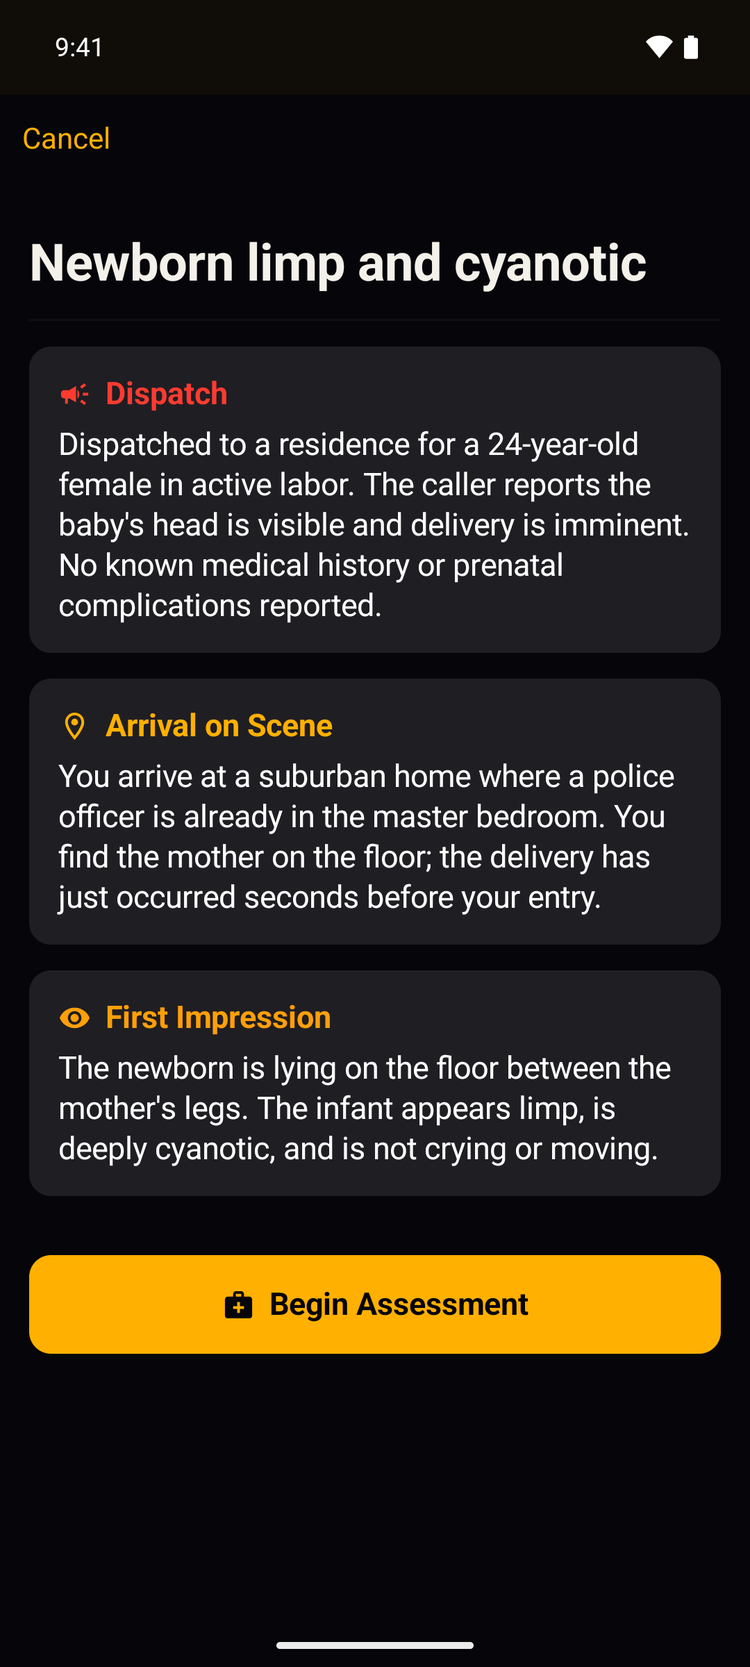
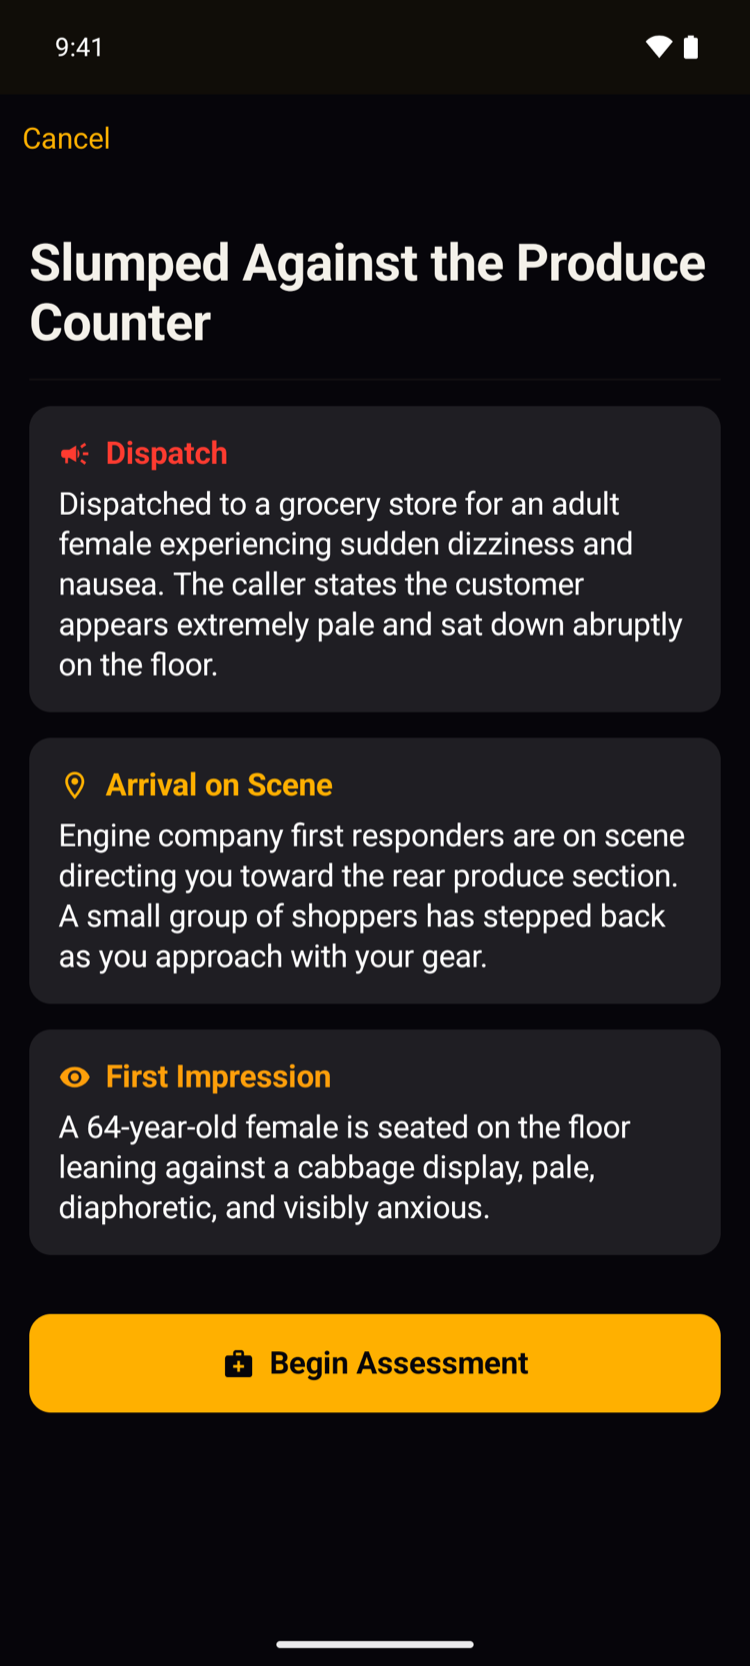
App page: Android shots recaptured from vc22 (9 screens, night and day), Android toggle back on
Claude-Session: https://claude.ai/code/session_01NDvMEPNuyk9MdhjjdwiH9w

Changed region(s): [[0.0307, 0.1248, 0.9813, 0.8739]]

diff --git a/app/index.html b/app/index.html
@@ -36,7 +36,7 @@
   <link rel="stylesheet" href="https://fonts.googleapis.com/css2?family=IBM+Plex+Mono:wght@400;500;600&family=Sora:wght@400;500;600;700;800&family=Source+Serif+4:opsz,wght@8..60,400;8..60,600&display=swap">
   <link rel="stylesheet" href="/assets/chrome.css?v=f5e22e65">
   <link rel="stylesheet" href="/assets/conveyor.css">
-  <link rel="stylesheet" href="/assets/app.css?v=51f94389">
+  <link rel="stylesheet" href="/assets/app.css?v=a8626ca0">
   <script>
     /* THE SHIFT IS RESOLVED BEFORE THE FIRST PAINT. app-toggle.js is deferred, so it
        runs after the page has already painted: a visitor who chose Day Shift saw the
@@ -115,7 +115,7 @@
 
         <div class="shot-col">
           <div class="toggles">
-            <div class="toggle" role="group" aria-label="Platform" hidden><!-- Android shots predate the current tabs; re-enable after a recapture -->
+            <div class="toggle" role="group" aria-label="Platform">
               <button type="button" data-set="platform:ios" aria-pressed="true"><svg width="13" height="13" viewBox="0 0 24 24" fill="currentColor" aria-hidden="true"><path d="M16.4 12.7c0-2.3 1.9-3.4 2-3.5-1.1-1.6-2.8-1.8-3.4-1.8-1.4-.1-2.8.9-3.5.9-.7 0-1.8-.9-3-.8-1.5 0-2.9.9-3.7 2.2-1.6 2.8-.4 6.9 1.1 9.1.8 1.1 1.7 2.3 2.9 2.3 1.2 0 1.6-.7 3-.7s1.8.7 3 .7c1.3 0 2.1-1.1 2.9-2.2.9-1.3 1.3-2.5 1.3-2.6 0 0-2.5-1-2.6-3.6zM14.2 5.9c.6-.8 1-1.9.9-3-.9 0-2.1.6-2.7 1.4-.6.7-1.1 1.8-1 2.9 1 .1 2.1-.5 2.8-1.3z"/></svg><span>iOS</span></button>
               <button type="button" data-set="platform:android" aria-pressed="false"><svg width="13" height="13" viewBox="0 0 24 24" fill="currentColor" aria-hidden="true"><path d="M17.6 9.5l1.4-2.4a.3.3 0 00-.5-.3L17 9.2a9.6 9.6 0 00-8.1 0L7.4 6.8a.3.3 0 00-.5.3l1.4 2.4A8.3 8.3 0 004 16h16a8.3 8.3 0 00-2.4-6.5zM8.5 13.4a.8.8 0 110-1.6.8.8 0 010 1.6zm7 0a.8.8 0 110-1.6.8.8 0 010 1.6z"/></svg><span>Android</span></button>
             </div>

diff --git a/assets/app.css b/assets/app.css
@@ -64,7 +64,6 @@
   font-size: 10px; letter-spacing: 1.3px; text-transform: uppercase; font-weight: 500;
 }
 .toggle button:hover { color: var(--ink); }
-.toggle[hidden] { display: none; }
 .toggle button.on { background: var(--ink); color: var(--paper); }
 .toggle button.on.night { background: var(--night); color: var(--night-ink); }
 .dot { width: 8px; height: 8px; border-radius: 2px; display: block; }
